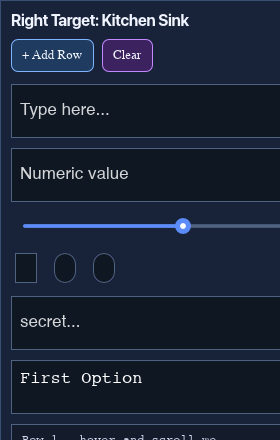
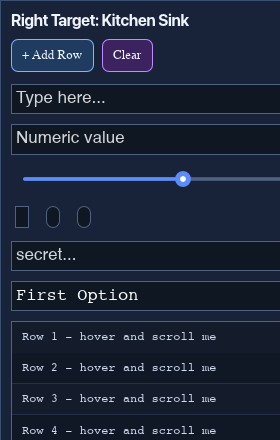
Render kitchen_sink radio buttons as circles
.field-checkbox/.field-radio set width:22 height:22 and padding:3
without overriding box-sizing, so each axis grew to 28px and the UA
14px border-radius landed on a 28px box — producing a horizontal pill
rather than a circle. Switch the checkbox/radio rule to border-box
sizing so the rendered box stays 22x22, and bump .field-radio's
border-radius to 11px (half the new box) so the corners collapse into
a circle.

diff --git a/examples/kitchen_sink.rs b/examples/kitchen_sink.rs
@@ -275,8 +275,8 @@ const APP_CSS: &str = r#"
 .field {
     display: block;
     width: 336px;
-    min-height: 36px;
-    padding: 8px;
+    min-height: 1em;
+    padding: 4px;
     margin-bottom: 10px;
     font-size: 17px;
     font-family: monospace;
@@ -322,15 +322,25 @@ const APP_CSS: &str = r#"
     cursor: pointer;
 }
 
-/* Checkbox and radio: fixed square, accent colour drives the painted widget. */
+/* Checkbox and radio: fixed square, accent colour drives the painted widget.
+   box-sizing keeps the rendered border-box at the declared size — without it
+   `padding` adds 6px to each axis and the radios become 28x28 rounded
+   rectangles instead of 22x22 squares. */
 .field-checkbox,
 .field-radio {
+    box-sizing: border-box;
     width: 22px;
     height: 22px;
     min-height: 22px;
     padding: 3px;
     color: #5b8cfa;
     cursor: pointer;
+}
+/* UA stylesheet sets a fixed 14px border-radius for radios, which is enough
+   for the 14px UA size but reads as a pill once we resize the box. Half the
+   box (11px) collapses the corners into a circle. */
+.field-radio {
+    border-radius: 11px;
 }
 
 /* Scrollable row list — alternating stripes + per-row :hover. */